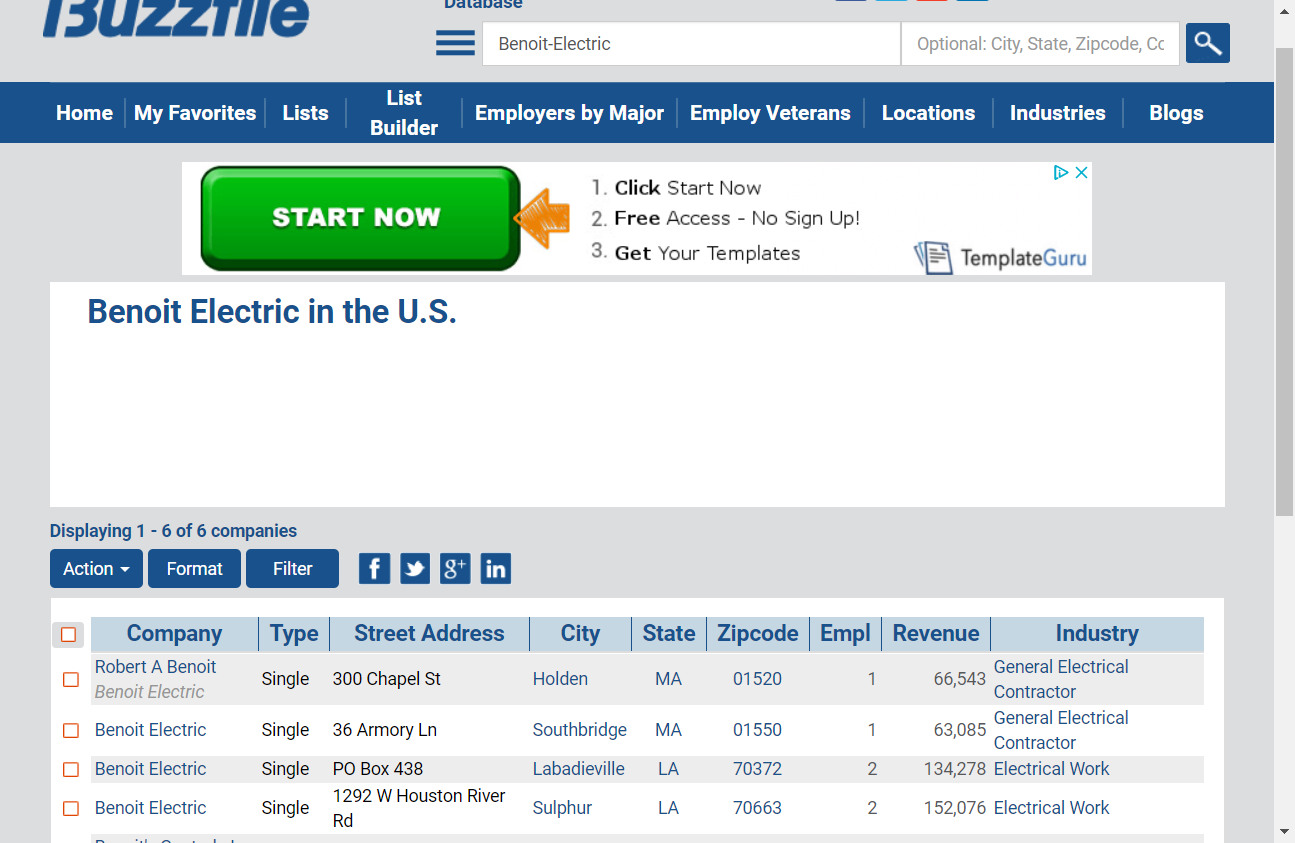
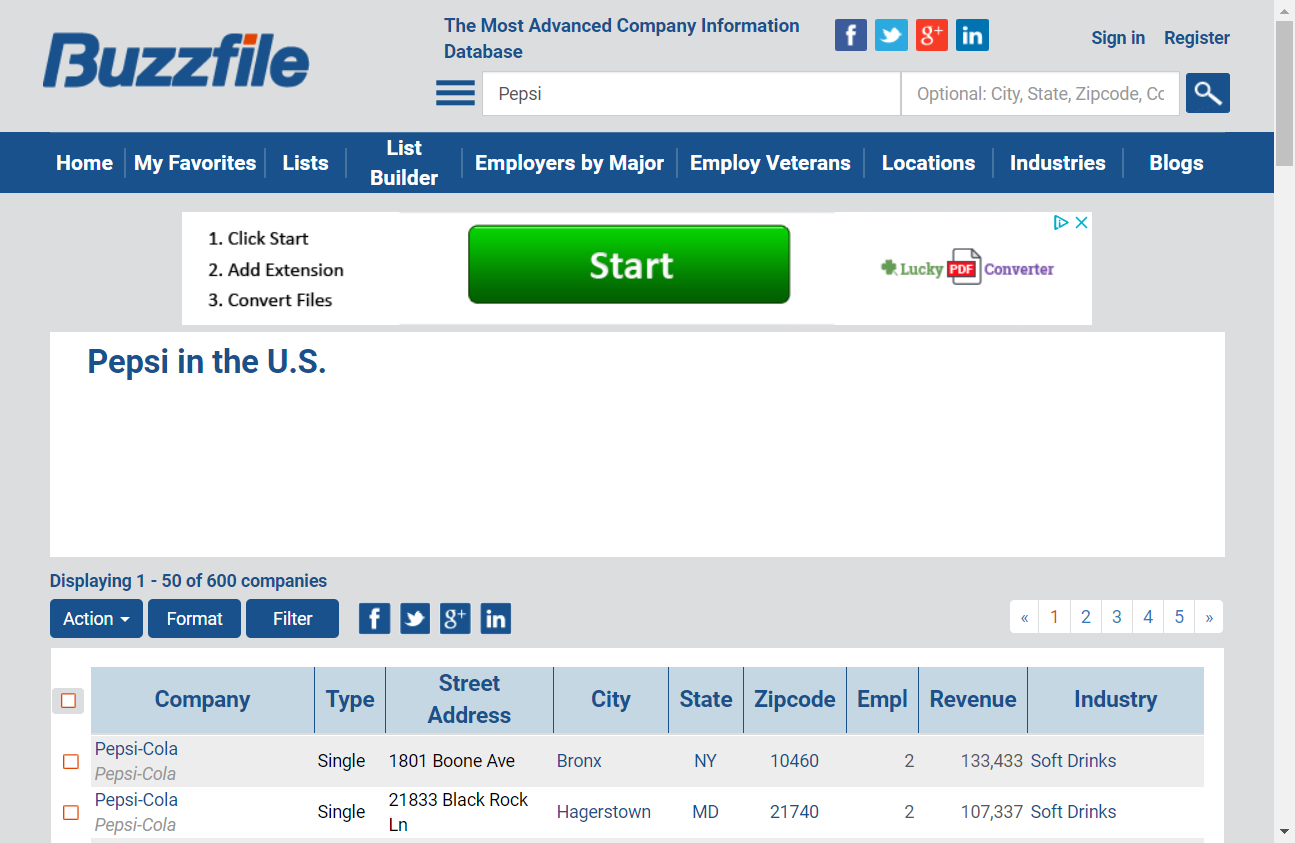
Selenium + BS

diff --git a/sales-leads.py b/sales-leads.py
@@ -1,7 +1,8 @@
 import csv
 from selenium import webdriver
 from selenium.webdriver.common.keys import Keys
-
+import requests
+from bs4 import BeautifulSoup
 
 #initialize driver
 
@@ -26,14 +27,67 @@ searchbox = driver.find_element_by_xpath(searchbox_xpath)
 # INTERACT WITH THE ELEMENT
 #
 
-search_term = "Benoit Electric"
+search_term = "Pepsi"
 searchbox.send_keys(search_term)
 
 searchbox.send_keys(Keys.RETURN)
-print(driver.title) #> 'Prof Rossetti GitHub - Google Search'
+#print(driver.title) #> 'Prof Rossetti GitHub - Google Search'
 driver.save_screenshot("search_results.png")
+
 
 #
 # ALWAYS QUIT THE DRIVER
 #
-print(type(search_term))
+#response = requests.get("https://www.buzzfile.com/Search/Company/Results?searchTerm=Pepsi&amp;type=1")
+#response_html = response.text
+
+#soup = BeautifulSoup(response_html, features = "lxml")
+soup = BeautifulSoup(driver.page_source, features = "lxml")
+
+#titles = soup.find_all("span", "title")
+
+#print(type(titles)) #> <class 'bs4.element.ResultSet'> (like a list)
+#print(titles[5]) #> <span class="title">Macbeth</span>
+#print(titles[5].text) #> Macbeth
+#exit()
+
+companylinks = soup.find_all("span", "search-display-info") # class name and what class equals
+
+print(companylinks)
+
+
+
+
+exit()
+books = []
+for list_item in booklinks:
+    title = list_item.find("span", "title").text #> class name and what class equals
+    author = list_item.find("span", "subtitle").text #> "William Shakespeare"
+    downloads = list_item.find("span", "extra").text #> '830 downloads'
+    downloads_count = int(downloads.replace(" downloads", "")) #> 830
+    book = {"title": title, "author": author, "downloads": downloads_count}
+    print(book)
+    books.append(book)
+
+print(books[2]["title"]) #> Macbeth
+
+
+#booklinks = soup.find_all("li", "booklink") # class name and what class equals
+
+#books = []
+#for list_item in booklinks:
+#    title = list_item.find("span", "title").text #> class name and what class equals
+#   author = list_item.find("span", "subtitle").text #> "William Shakespeare"
+ #   downloads = list_item.find("span", "extra").text #> '830 downloads'
+  #  downloads_count = int(downloads.replace(" downloads", "")) #> 830
+   # book = {"title": title, "author": author, "downloads": downloads_count}
+    #print(book)
+    #books.append(book)
+
+#print(books[2]["title"]) #> Macbeth
+
+
+
+
+
+
